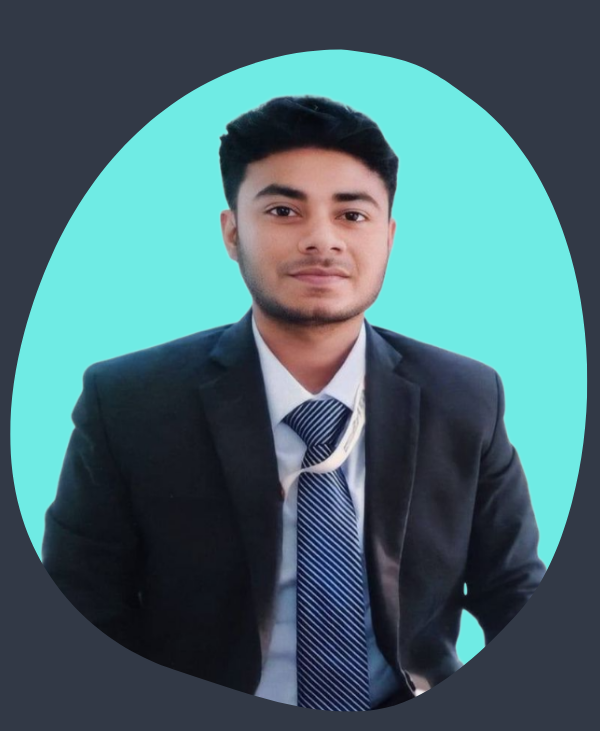
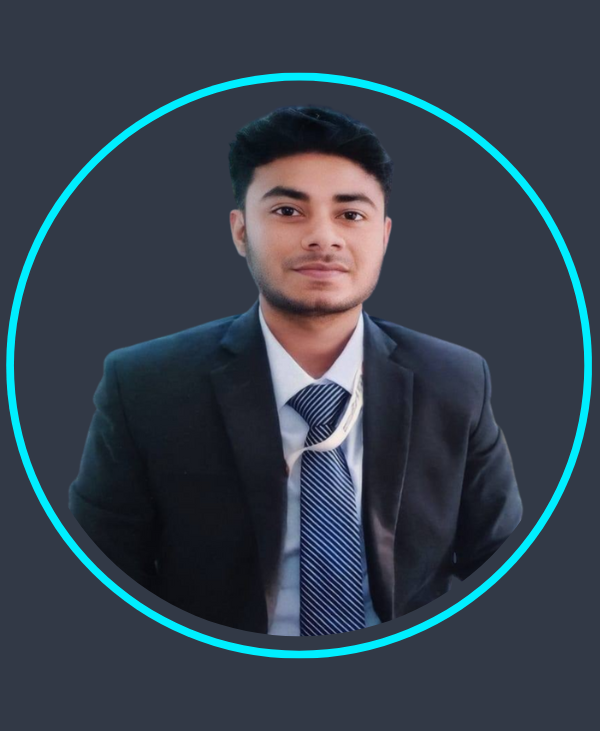
photo edited

diff --git a/index.html b/index.html
@@ -66,7 +66,7 @@
         <h1>MD MAHFUZAR RAHMAN TAREK</h1>
         <h3>And I'm a <span class="multiple-text"></span></h3>
         <p>
-          I am a committed graduate with a degree in computer science and
+          A committed graduate with a degree in computer science and
           engineering from Varendra University, with a profound passion for
           software and web development. My focus lies in pursuing an internship
           opportunity as a web developer, where I can apply and elevate my
@@ -98,7 +98,7 @@
         <a href="#" class="btn" id="downloadBtn">Download CV</a>
       </div>
       <div class="home-img">
-        <img src="images/profile.png" alt="home-image" />
+        <img src="images/home.png" alt="home-image" />
       </div>
     </section>
 
@@ -348,9 +348,9 @@
               eum.
             </p>
             <div>
-              <a href="#"><i class="bx bx-play-circle"></i></a>
-              <a href="#"><i class="bx bx-link-external"></i></a>
-              <a href="#"><i class="bx bx-link-external"></i></a>
+              <a href="https://fauget-travel.web.app/" target="_blank"><i class="bx bx-play-circle"></i></a>
+              <a href="https://github.com/mahfuzar175/fauget-travel-client-side" target="_blank"><i class="bx bx-link-external"></i></a>
+              <a href="https://github.com/mahfuzar175/fauget-travel-server-side" target="_blank"><i class="bx bx-link-external"></i></a>
             </div>
           </div>
         </div>
@@ -363,9 +363,9 @@
               eum.
             </p>
             <div>
-              <a href="#"><i class="bx bx-play-circle"></i></a>
-              <a href="#"><i class="bx bx-link-external"></i></a>
-              <a href="#"><i class="bx bx-link-external"></i></a>
+              <a href="https://fauget-travel.web.app/" target="_blank"><i class="bx bx-play-circle"></i></a>
+              <a href="https://github.com/mahfuzar175/fauget-travel-client-side" target="_blank"><i class="bx bx-link-external"></i></a>
+              <a href="https://github.com/mahfuzar175/fauget-travel-server-side" target="_blank"><i class="bx bx-link-external"></i></a>
             </div>
           </div>
         </div>
@@ -378,9 +378,9 @@
               eum.
             </p>
             <div>
-              <a href="#"><i class="bx bx-play-circle"></i></a>
-              <a href="#"><i class="bx bx-link-external"></i></a>
-              <a href="#"><i class="bx bx-link-external"></i></a>
+              <a href="https://fauget-travel.web.app/" target="_blank"><i class="bx bx-play-circle"></i></a>
+              <a href="https://github.com/mahfuzar175/fauget-travel-client-side" target="_blank"><i class="bx bx-link-external"></i></a>
+              <a href="https://github.com/mahfuzar175/fauget-travel-server-side" target="_blank"><i class="bx bx-link-external"></i></a>
             </div>
           </div>
         </div>
@@ -393,9 +393,9 @@
               eum.
             </p>
             <div>
-              <a href="#"><i class="bx bx-play-circle"></i></a>
-              <a href="#"><i class="bx bx-link-external"></i></a>
-              <a href="#"><i class="bx bx-link-external"></i></a>
+              <a href="https://fauget-travel.web.app/" target="_blank"><i class="bx bx-play-circle"></i></a>
+              <a href="https://github.com/mahfuzar175/fauget-travel-client-side" target="_blank"><i class="bx bx-link-external"></i></a>
+              <a href="https://github.com/mahfuzar175/fauget-travel-server-side" target="_blank"><i class="bx bx-link-external"></i></a>
             </div>
           </div>
         </div>
@@ -408,9 +408,9 @@
               eum.
             </p>
             <div>
-              <a href="#"><i class="bx bx-play-circle"></i></a>
-              <a href="#"><i class="bx bx-link-external"></i></a>
-              <a href="#"><i class="bx bx-link-external"></i></a>
+              <a href="https://fauget-travel.web.app/" target="_blank"><i class="bx bx-play-circle"></i></a>
+              <a href="https://github.com/mahfuzar175/fauget-travel-client-side" target="_blank"><i class="bx bx-link-external"></i></a>
+              <a href="https://github.com/mahfuzar175/fauget-travel-server-side" target="_blank"><i class="bx bx-link-external"></i></a>
             </div>
           </div>
         </div>
@@ -423,12 +423,13 @@
               eum.
             </p>
             <div>
-              <a href="#"><i class="bx bx-play-circle"></i></a>
-              <a href="#"><i class="bx bx-link-external"></i></a>
-              <a href="#"><i class="bx bx-link-external"></i></a>
+              <a href="https://fauget-travel.web.app/" target="_blank"><i class="bx bx-play-circle"></i></a>
+              <a href="https://github.com/mahfuzar175/fauget-travel-client-side" target="_blank"><i class="bx bx-link-external"></i></a>
+              <a href="https://github.com/mahfuzar175/fauget-travel-server-side" target="_blank"><i class="bx bx-link-external"></i></a>
             </div>
           </div>
         </div>
+        
       </div>
     </section>
 

diff --git a/css/style.css b/css/style.css
@@ -80,11 +80,12 @@ section {
 .home {
   display: flex;
   justify-content: center;
+  gap: 1rem;
   align-items: center;
 }
 
 .home-img img {
-  width: 30vw;
+  width: 31.5vw;
   animation: floatImage 4s ease-in-out infinite;
 }
 
@@ -165,13 +166,13 @@ span {
   display: flex;
   justify-content: center;
   align-items: center;
-  gap: 2rem;
+  gap: 4rem;
   background: var(--second-bg-color);
   padding-bottom: 5rem;
 }
 
 .about-img img {
-  width: 30vw;
+  width: 31vw;
 }
 
 .heading {
